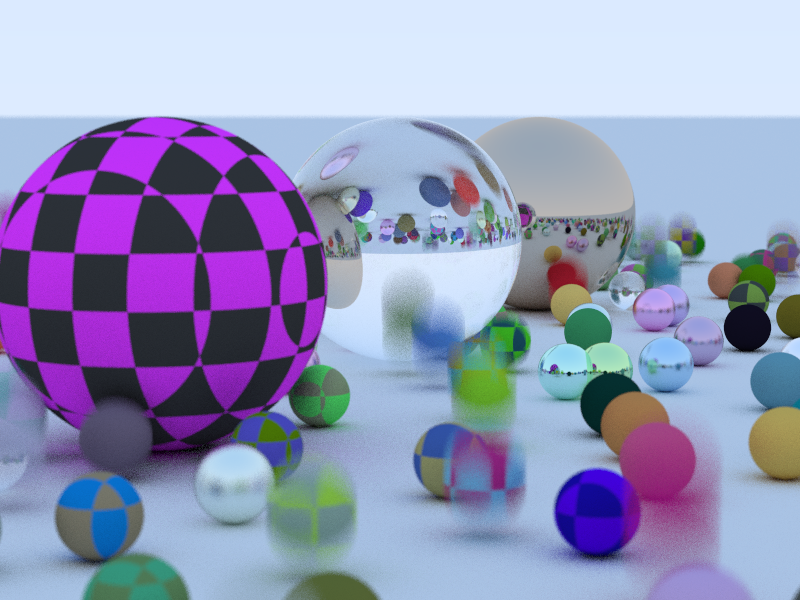
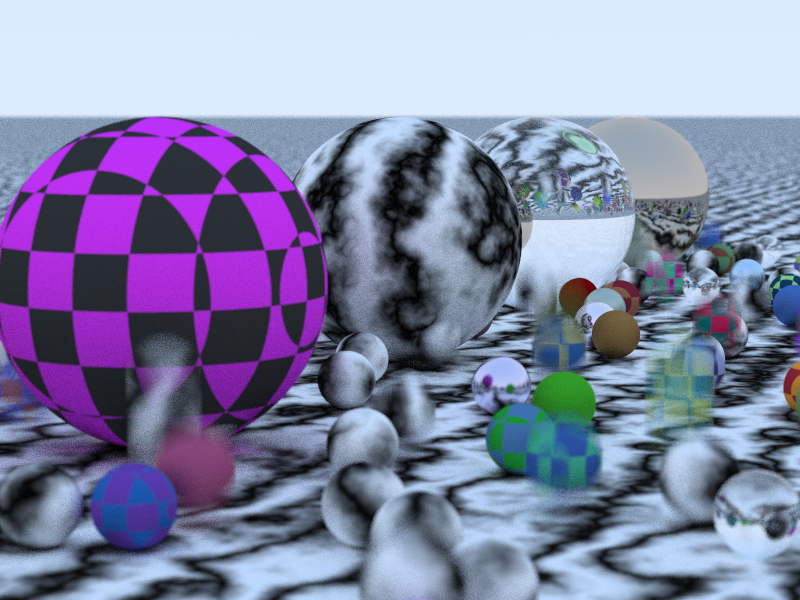
Implemented Perlin noise texture

diff --git a/src/util/world.rs b/src/util/world.rs
@@ -1,5 +1,4 @@
 use std::fs;
-use std::rc::Rc;
 
 use rand::Rng;
 use serde_json::Value;
@@ -10,7 +9,10 @@ use crate::shapes::{
     plane::{self, Plane},
     sphere::{self, Sphere},
 };
-use crate::textures::{checkered_texture::CheckeredTexture, constant_texture::ConstantTexture};
+use crate::textures::{
+    checkered_texture::CheckeredTexture, constant_texture::ConstantTexture,
+    noise_texture::NoiseTexture,
+};
 use crate::util::{
     hitable::{HitRecord, Hitable},
     hitable_list::HitableList,
@@ -99,9 +101,10 @@ pub fn random_scene() -> HitableList {
     list.push(Plane::new(
         Vec3::zero(),
         Vec3::new(0.0, 1.0, 0.0),
-        Lambertian::new(ConstantTexture::new(Vec3::new(0.8, 0.8, 0.8))),
+        //Lambertian::new(ConstantTexture::new(Vec3::new(0.8, 0.8, 0.8))),
         //Rc::new(Metal::new(Vec3::new(0.5, 0.5, 0.5), 0.05)),
         //Rc::new(Dielectric::new(1.5)),
+        Lambertian::new(NoiseTexture::new(10.0)),
     ));
 
     let mut rng = rand::thread_rng();
@@ -123,12 +126,14 @@ pub fn random_scene() -> HitableList {
                         0.0,
                         1.0,
                         0.2,
-                        if choose_texture > 0.5 {
+                        if choose_texture < 0.33 {
                             Lambertian::new(ConstantTexture::new(Vec3::new(
                                 rng.gen::<f64>() * rng.gen::<f64>(),
                                 rng.gen::<f64>() * rng.gen::<f64>(),
                                 rng.gen::<f64>() * rng.gen::<f64>(),
                             )))
+                        } else if choose_texture < 0.66 {
+                            Lambertian::new(NoiseTexture::new(10.0 + 10.0 * rng.gen::<f64>()))
                         } else {
                             Lambertian::new(CheckeredTexture::new(
                                 ConstantTexture::new(Vec3::new(
@@ -151,12 +156,14 @@ pub fn random_scene() -> HitableList {
                     list.push(Sphere::new(
                         center,
                         0.2,
-                        if choose_texture > 0.5 {
+                        if choose_texture < 0.33 {
                             Lambertian::new(ConstantTexture::new(Vec3::new(
                                 rng.gen::<f64>() * rng.gen::<f64>(),
                                 rng.gen::<f64>() * rng.gen::<f64>(),
                                 rng.gen::<f64>() * rng.gen::<f64>(),
                             )))
+                        } else if choose_texture < 0.66 {
+                            Lambertian::new(NoiseTexture::new(10.0 + 10.0 * rng.gen::<f64>()))
                         } else {
                             Lambertian::new(CheckeredTexture::new(
                                 ConstantTexture::new(Vec3::new(
@@ -198,7 +205,8 @@ pub fn random_scene() -> HitableList {
     list.push(Sphere::new(
         Vec3::new(0.0, 1.0, 0.0),
         1.0,
-        Dielectric::new(1.5),
+        //Dielectric::new(1.5),
+        Lambertian::new(NoiseTexture::new(10.0)),
     ));
     list.push(Sphere::new(
         Vec3::new(-4.0, 1.0, 0.0),
@@ -211,6 +219,12 @@ pub fn random_scene() -> HitableList {
     ));
     list.push(Sphere::new(
         Vec3::new(4.0, 1.0, 0.0),
+        1.0,
+        //Metal::new(Vec3::new(0.7, 0.6, 0.5), 0.0),
+        Dielectric::new(1.8),
+    ));
+    list.push(Sphere::new(
+        Vec3::new(8.0, 1.0, 0.0),
         1.0,
         Metal::new(Vec3::new(0.7, 0.6, 0.5), 0.0),
     ));

diff --git a/src/util/perlin.rs b/src/util/perlin.rs
@@ -1,0 +1,106 @@
+use rand::Rng;
+
+use crate::util::{math, vector3::Vec3};
+
+pub struct Perlin {
+    pub random_vectors: Vec<Vec3>,
+    pub perm_x: Vec<i64>,
+    pub perm_y: Vec<i64>,
+    pub perm_z: Vec<i64>,
+}
+
+impl Perlin {
+    pub fn new() -> Perlin {
+        Perlin {
+            random_vectors: perlin_generate(),
+            perm_x: perlin_generate_perm(),
+            perm_y: perlin_generate_perm(),
+            perm_z: perlin_generate_perm(),
+        }
+    }
+
+    pub fn noise(&self, p: Vec3) -> f64 {
+        let u = p.x - p.x.floor();
+        let v = p.y - p.y.floor();
+        let w = p.z - p.z.floor();
+        let i = p.x.floor() as usize;
+        let j = p.y.floor() as usize;
+        let k = p.z.floor() as usize;
+        let mut c = vec![vec![vec![Vec3::zero(); 2]; 2]; 2];
+        for di in 0..2 {
+            for dj in 0..2 {
+                for dk in 0..2 {
+                    c[di][dj][dk] = self.random_vectors[(self.perm_x[(i + di) & 255]
+                        ^ self.perm_y[(j + dj) & 255]
+                        ^ self.perm_z[(k + dk) & 255])
+                        as usize];
+                }
+            }
+        }
+        trilinear_interp(c, u, v, w)
+    }
+
+    pub fn turbulence(&self, p: Vec3, depth: usize) -> f64 {
+        let mut accum = 0.0;
+        let mut temp_p = p;
+        let mut weight = 1.0;
+        for _ in 0..depth {
+            accum += weight * self.noise(temp_p);
+            weight *= 0.5;
+            temp_p *= 2.0;
+        }
+
+        accum.abs()
+    }
+}
+
+fn perlin_generate() -> Vec<Vec3> {
+    let mut rng = rand::thread_rng();
+    (0..256)
+        .into_iter()
+        .map(|_| {
+            math::unit_vector(&Vec3::new(
+                -1.0 + 2.0 * rng.gen::<f64>(),
+                -1.0 + 2.0 * rng.gen::<f64>(),
+                -1.0 + 2.0 * rng.gen::<f64>(),
+            ))
+        })
+        .collect()
+}
+
+fn perlin_generate_perm() -> Vec<i64> {
+    let mut p: Vec<i64> = (0..256).into_iter().collect();
+    permute(&mut p);
+    p
+}
+
+fn permute(p: &mut Vec<i64>) {
+    let mut rng = rand::thread_rng();
+    let n = p.len();
+    for i in (0..n).rev() {
+        let target = (rng.gen::<f64>() * (i + 1) as f64) as usize;
+        let temp = p[i as usize];
+        p[i as usize] = p[target];
+        p[target] = temp;
+    }
+}
+
+fn trilinear_interp(c: Vec<Vec<Vec<Vec3>>>, u: f64, v: f64, w: f64) -> f64 {
+    let mut accum = 0.0;
+    let uu = u * u * (3.0 - 2.0 * u);
+    let vv = v * v * (3.0 - 2.0 * v);
+    let ww = w * w * (3.0 - 2.0 * w);
+    // There's probably an idiomatic way to do this with iterators, sum(), zip(), etc.
+    for i in 0..2 {
+        for j in 0..2 {
+            for k in 0..2 {
+                let weight_v = Vec3::new(u - i as f64, v - j as f64, w - k as f64);
+                accum += (i as f64 * uu + (1.0 - i as f64) * (1.0 - uu))
+                    * (j as f64 * vv + (1.0 - j as f64) * (1.0 - vv))
+                    * (k as f64 * ww + (1.0 - k as f64) * (1.0 - ww))
+                    * math::dot(&c[i][j][k], &weight_v);
+            }
+        }
+    }
+    accum
+}

diff --git a/src/textures/noise_texture.rs b/src/textures/noise_texture.rs
@@ -1,0 +1,25 @@
+use std::rc::Rc;
+
+use crate::textures::Texture;
+use crate::util::{perlin::Perlin, vector3::Vec3};
+
+pub struct NoiseTexture {
+    noise: Perlin,
+    scale: f64,
+}
+
+impl NoiseTexture {
+    pub fn new(scale: f64) -> Rc<NoiseTexture> {
+        Rc::new(NoiseTexture {
+            noise: Perlin::new(),
+            scale,
+        })
+    }
+}
+
+impl Texture for NoiseTexture {
+    fn value(&self, u: f64, v: f64, p: Vec3) -> Vec3 {
+        //Vec3::unit() * self.noise.noise(self.scale * p)
+        Vec3::unit() * 0.5 * (1.0 + (self.scale * p.z + 10.0 * self.noise.turbulence(p, 7)).sin())
+    }
+}

diff --git a/src/util.rs b/src/util.rs
@@ -3,6 +3,7 @@ pub mod config;
 pub mod hitable;
 pub mod hitable_list;
 pub mod math;
+pub mod perlin;
 pub mod ray;
 pub mod vector3;
 pub mod world;

diff --git a/src/textures.rs b/src/textures.rs
@@ -6,3 +6,4 @@ pub trait Texture {
 
 pub mod checkered_texture;
 pub mod constant_texture;
+pub mod noise_texture;
